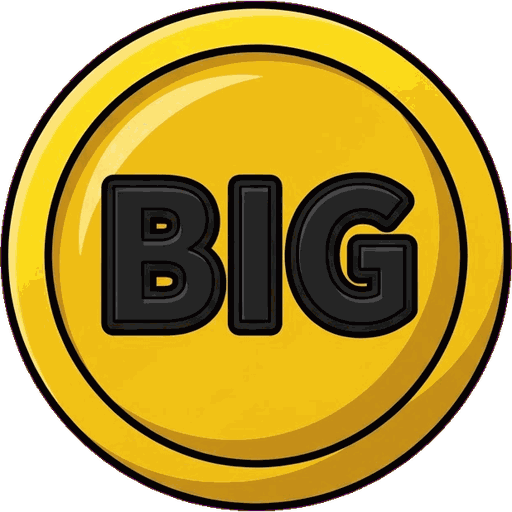
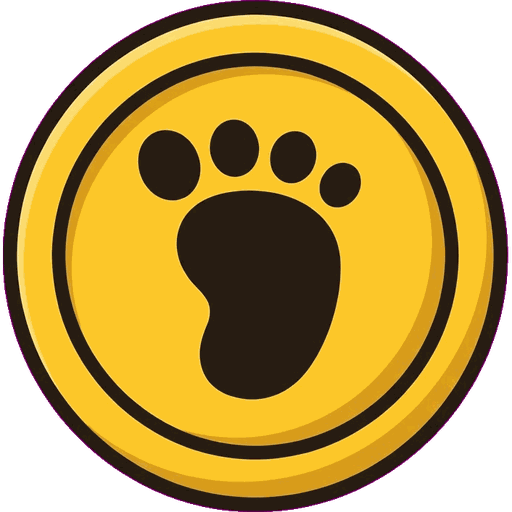
UNITY ART LAW (Bude: 'the art used in unity shouldnt be any you used through code work for the test demo'): Unity uses ONLY real art assets — no code-drawn demo visuals. (1) Generated + inked real art for every visual the demo drew procedurally: art_sun (the one sun), art_ridges (Cascade ridges + sn

diff --git a/unity/Assets/Art/ART-MANIFEST.md b/unity/Assets/Art/ART-MANIFEST.md
@@ -1,0 +1,43 @@
+# Lil Foots Unity Art Manifest
+
+**LAW (Bude, Sept 18 2026):** "The art used in Unity shouldnt be any you used through code work for the test demo."
+The Unity build uses ONLY real art asset files. Nothing that was code-drawn in the HTML test demo may appear in Unity — every visual the demo drew procedurally now has a generated, inked, palette-matched PNG asset here.
+
+## Asset inventory (all real art — no code-drawn visuals)
+
+### Characters (Bude's refs, recreated/whole-sprite per the character art laws)
+- `whole_lily.png` / `whole_buddy.png` / `whole_emma.png` — in-game whole sprites
+- `recreated_lily.png` / `recreated_buddy.png` / `recreated_emma.png` — white-bg recreations
+- `Characters/lily-rig-ready-v1.png`, `buddy-rig-ready-v1.png`, `emma-rig-ready-v1.png` — approved T-poses for Unity skeleton/rigging
+- `rig_*_body/footL/footR.png` — legacy rig-cut pieces (superseded by whole-sprite law; kept for reference)
+
+### Enemies (roster canon: Carl + hounds + trail cams + drones + Skeptic Steve)
+- `art_carl.png`, `art_hound.png` (lab v2, yellow/black/chocolate recolors via tint), `art_trailcam.png`, `art_drone.png`, `art_steve.png`
+
+### Props
+- `art_flaggate.png`, `art_flagportal.png` — level-flow flagpole + portal gate
+
+### Collectibles / UI
+- `art_token.png` — Big Token, FOOTPRINT coin face (footprint symbol law; supersedes the old BIG-lettering version)
+- `art_heart.png` — cartoon heart (HUD lives AND the world extra-life pickup)
+- `art_btnL.png` / `art_btnJ.png` — chunky touch buttons (right button = mirrored art_btnL)
+- `art_panel.png` — wooden HUD sign panel behind the token counter
+
+### World — Region 1: Pacific Northwest
+- `art_sky_pnw.png` — overcast sky plate (the demo's pinned sky)
+- `art_ridges.png` — Cascade ridges + snow-capped volcano strip (was code-drawn silhouettes in the demo)
+- `art_sun.png` — the ONE sun, real art (was a code-drawn disc in the demo; never drawn procedurally in Unity)
+- `art_firwall.png` — dense fir midground strip
+- `art_fgl.png` / `art_fgr.png` — foreground cartoon trunks (left/right tiles)
+- `art_camtree.png` — the tree the trail cams mount on
+- `art_mist.png` — PNW mist bank sprite (was code ellipses; Unity uses this as a drifting VFX sprite)
+- `art_water.png` — stream surface strip (was code gradient)
+- `art_ground_strip.png` — platform top strip (grass lip + dirt band + stones)
+- `art_earth.png` — platform body earth fill tile (was code fill + code stones)
+- `art_bgplate.jpg`, `art_cedar.png`, `art_fg.png`, `art_leaf.png`, `art_plat.png`, `art_puff.png`, `art_spark.png` — earlier real-art set (retained; superseded plates kept for reference)
+
+### Animation
+- `Animation/LilyRun/` — run frames
+
+## Demo-vs-Unity rule
+If a new visual is ever drawn in code for the test demo (a quick mock), it ships to Unity ONLY after it becomes a real art asset through the standard pipeline: generate -> ink (thick outlines) -> palette remap -> transparent background. No exceptions.
